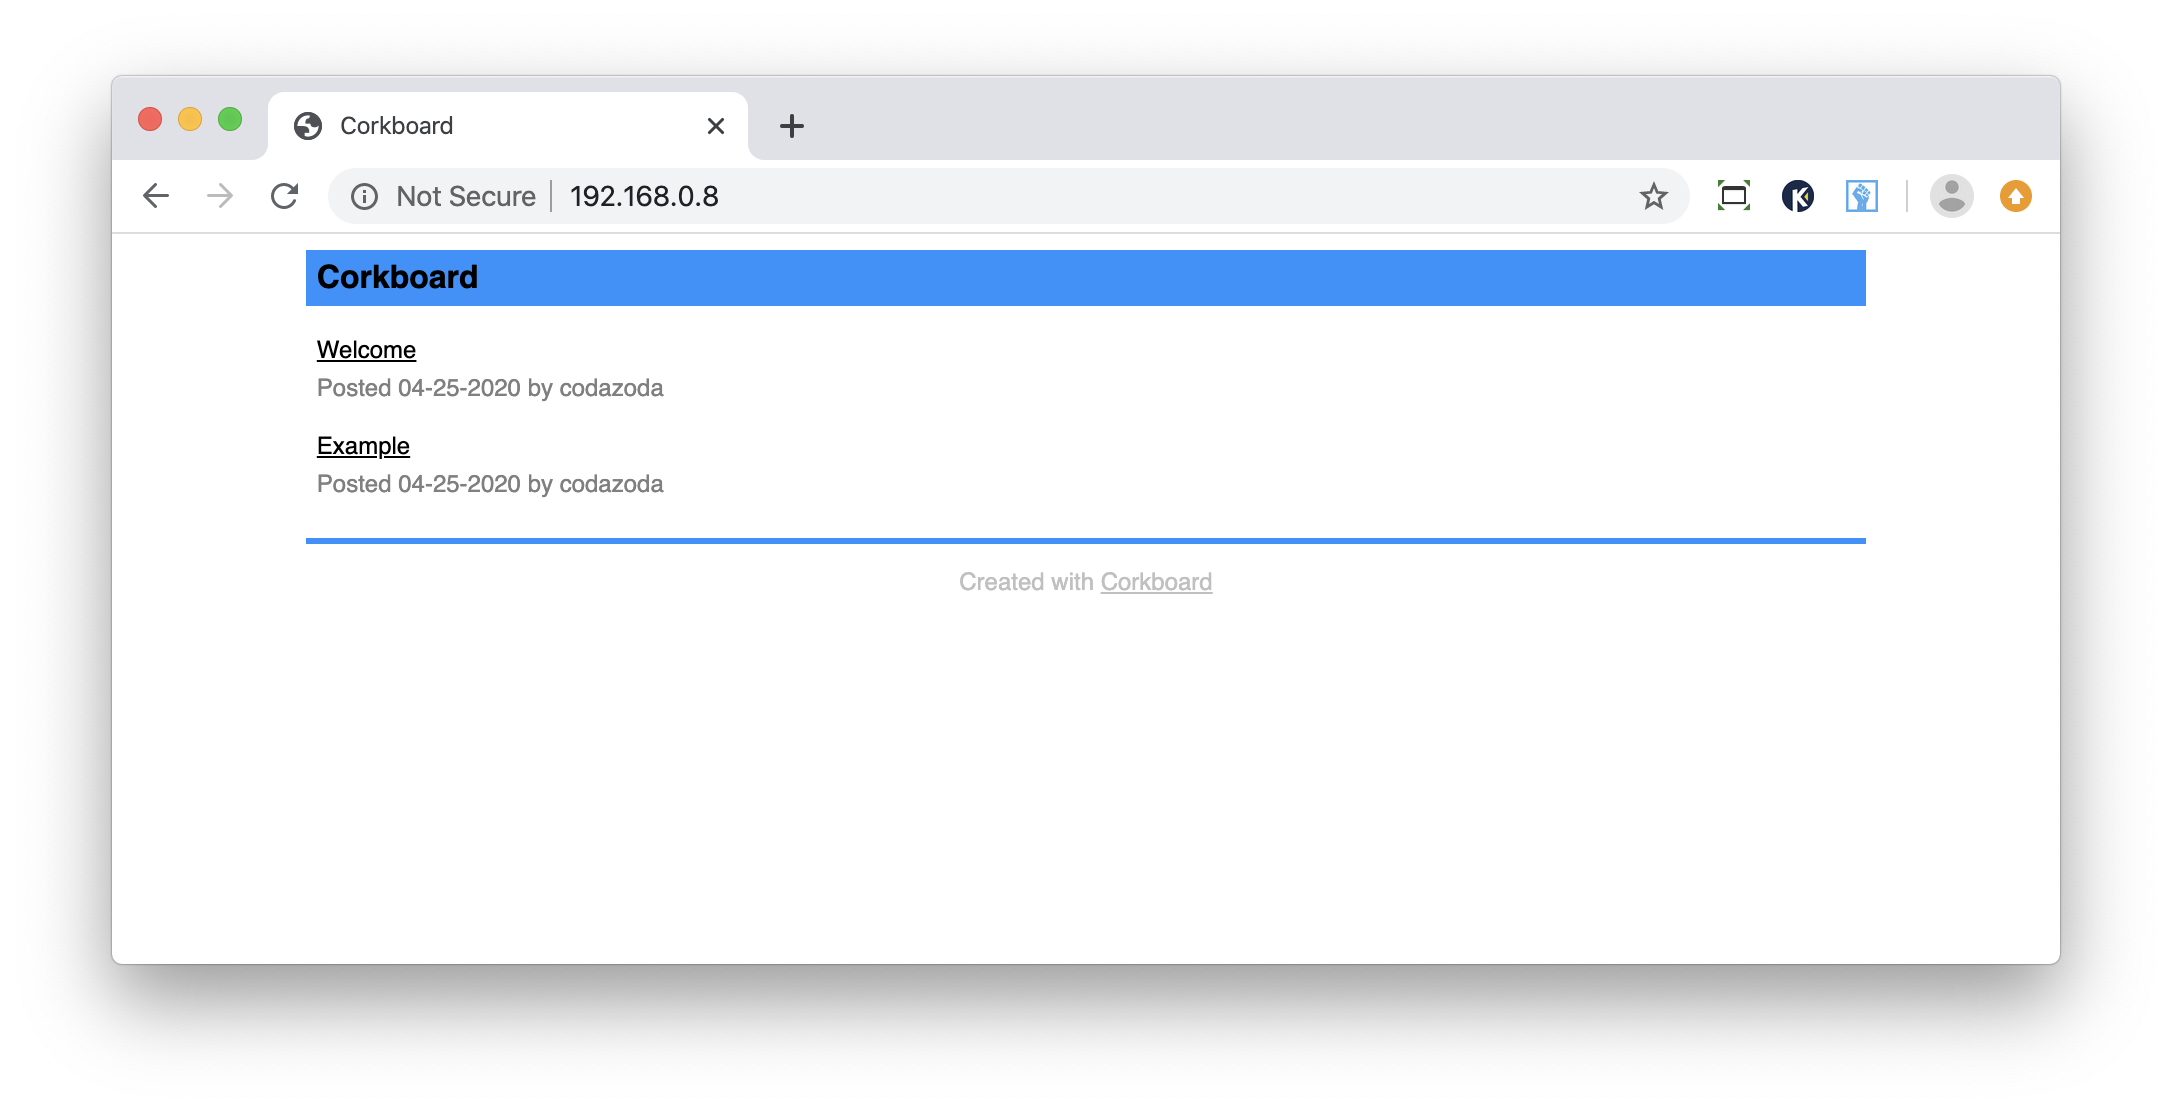
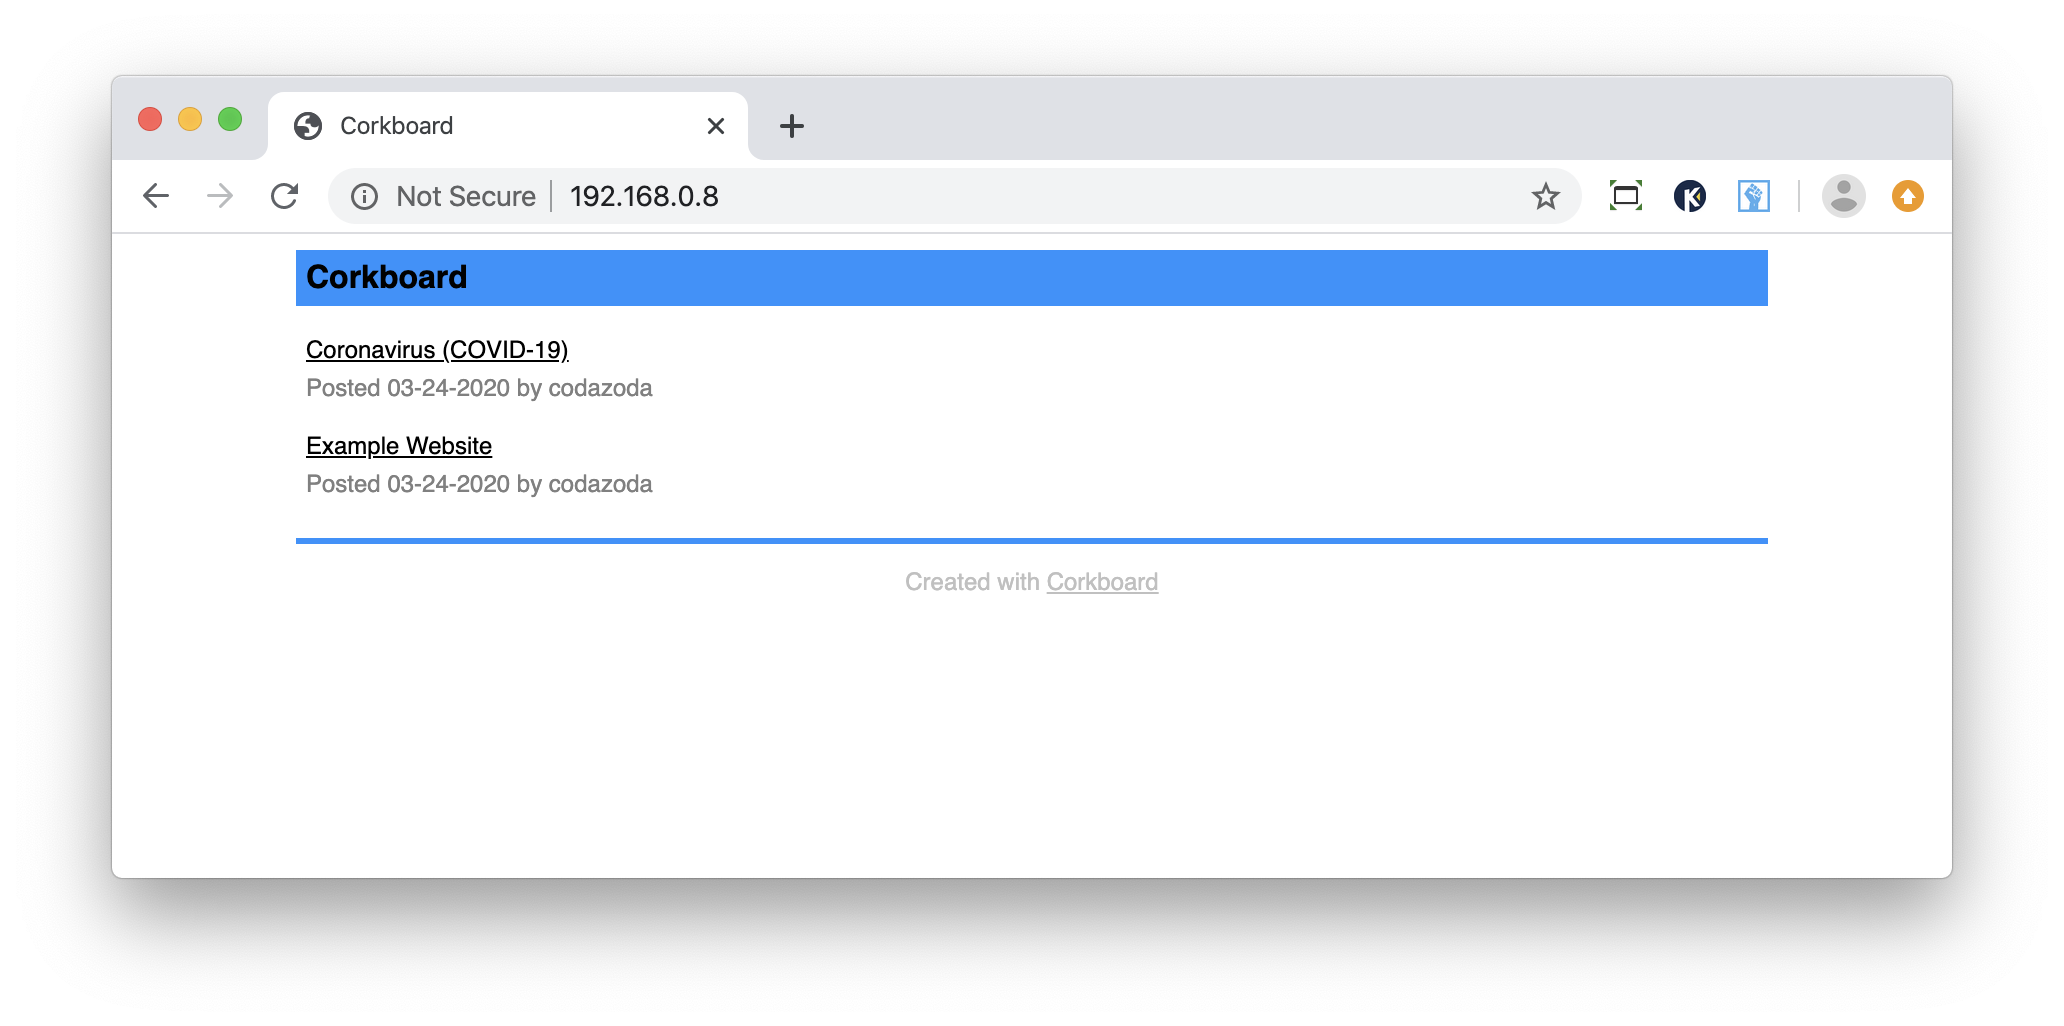
Update the screenshot and readme links

Changed region(s): [[0.031, 0.0624, 0.9612, 0.5302], [0.031, 0.8421, 0.9612, 0.8733], [0.4341, 0.5614, 0.5581, 0.5926]]

diff --git a/README.md b/README.md
@@ -5,8 +5,7 @@ the contents with your favorite text editor. Just unzip the files and host.
 
 ![Corkboard Screenshot](resources/corkboard.png)
 
-There's a [demo](https://codazoda.github.com/corkboard) hosted on GitHub,
-directly from this repo.
+[Corkboard](https://github.com/codazoda/corkboard) is on GitHub and there's also a [demo](https://codazoda.github.com/corkboard) hosted on GitHub, directly from the repo.
 
 This first version, the MVP, contains only hyperlinks to other resources.
 Originally I wanted to design a Hacker News clone with user logins, submissions,
